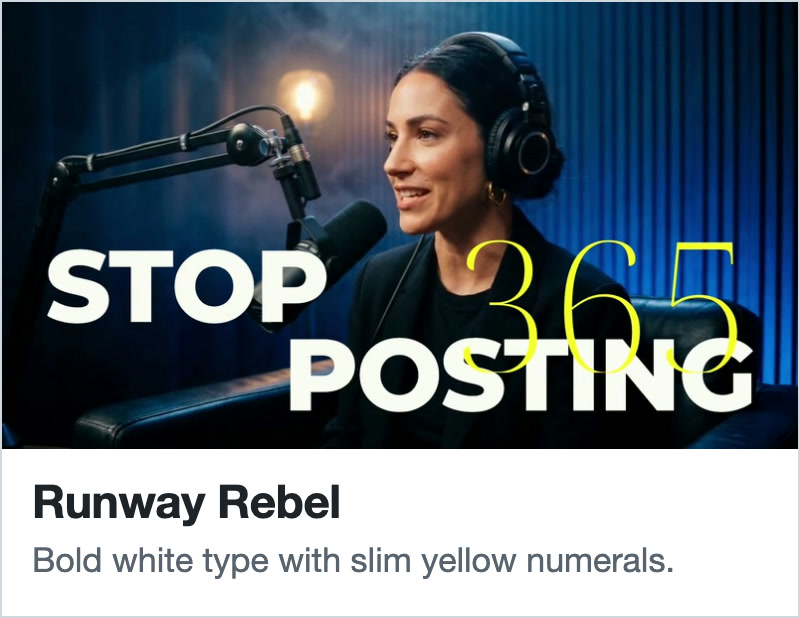
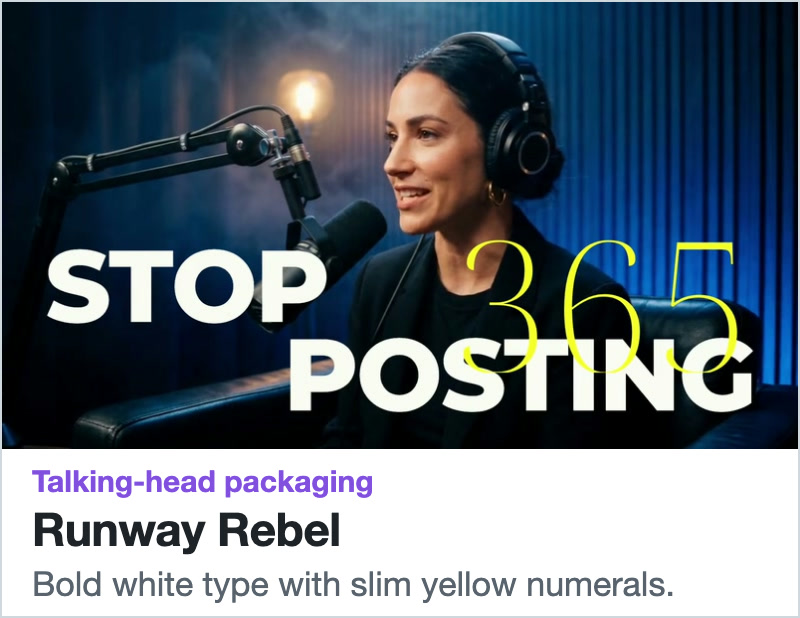
docs(readme): six Skill cards, one Install section, left-aligned intro
- Keep six cards with Viral Video Cloner in the center of the top row; the two
  packaging cards carry a "Talking-head packaging" label.
- Fold what was unique in the later Desktop and hosted Web sections into the
  Install subsections and drop the duplicates.
- Move the intro paragraph out of the centered block.

Changed region(s): [[0.0312, 0.7379, 0.8438, 0.9838]]

diff --git a/README.md b/README.md
@@ -12,9 +12,9 @@
   <a href="https://glama.ai/mcp/connectors/io.chatcut/chatcut"><img src="https://glama.ai/mcp/connectors/io.chatcut/chatcut/badges/score.svg" alt="ChatCut MCP server on Glama"></a>
 </p>
 
-<div align="center">
-
 **ChatCut is an AI video editor for agents: an MCP server and plugin that lets Codex, ChatGPT, Claude Code, Cursor, Grok Bot, Gemini CLI, Google Antigravity, Kimi Work, WorkBuddy, Doubao Work and Qwen Work edit your own footage, add captions and subtitles, remove silences and filler words, create motion graphics, generate video, voiceovers and music, and export an editable timeline.**
+
+<div align="center">
 
 [Website](https://chatcut.io/?utm_source=github&utm_medium=readme&utm_campaign=agent-plugin) · [Skills](https://chatcut.io/skills?utm_source=github&utm_medium=readme&utm_campaign=agent-plugin) · [Docs](https://chatcut.io/docs?utm_source=github&utm_medium=readme&utm_campaign=agent-plugin) · [Setup guide](https://chatcut.io/desktop?utm_source=github&utm_medium=readme&utm_campaign=agent-plugin) · [Pricing](https://chatcut.io/pricing?utm_source=github&utm_medium=readme&utm_campaign=agent-plugin) · [Discord](https://discord.com/invite/sMjQPvwZTT) · [X](https://x.com/chatcutapp)
 
@@ -36,14 +36,11 @@
 
 <p align="center">
   <a href="https://chatcut.io/skills/speech-cleanup?utm_source=github&amp;utm_medium=readme&amp;utm_campaign=agent-plugin"><img src="docs/media/skills/speech-cleanup.jpg" width="260" alt="Speech Cleanup: removes retakes, long pauses and slips"></a>
+  <a href="https://chatcut.io/viralvideocloner?utm_source=github&amp;utm_medium=readme&amp;utm_campaign=agent-plugin"><img src="docs/media/skills/viral-video-cloner.jpg" width="260" alt="Viral Video Cloner: keeps a viral video's moves, camera work and cuts, and swaps in your own people, product and setting"></a>
   <a href="https://chatcut.io/skills/add-captions?utm_source=github&amp;utm_medium=readme&amp;utm_campaign=agent-plugin"><img src="docs/media/skills/add-captions.jpg" width="260" alt="Add captions: readable captions in a style that fits"></a>
   <a href="https://chatcut.io/skills/recreate-a-video?utm_source=github&amp;utm_medium=readme&amp;utm_campaign=agent-plugin"><img src="docs/media/skills/recreate-a-video.jpg" width="260" alt="Talking-Head Edit Recreation: recreates a reference edit with your footage"></a>
-  <a href="https://chatcut.io/skills/ai-avatar-video?utm_source=github&amp;utm_medium=readme&amp;utm_campaign=agent-plugin"><img src="docs/media/skills/ai-avatar-video.jpg" width="260" alt="AI Avatar Video: a presenter video from a photo and a script"></a>
-  <a href="https://chatcut.io/viralvideocloner?utm_source=github&amp;utm_medium=readme&amp;utm_campaign=agent-plugin"><img src="docs/media/skills/viral-video-cloner.jpg" width="260" alt="Viral Video Cloner: keeps a viral video's moves, camera work and cuts, and swaps in your own people, product and setting"></a>
-  <a href="https://chatcut.io/skills/voice-cloning?utm_source=github&amp;utm_medium=readme&amp;utm_campaign=agent-plugin"><img src="docs/media/skills/voice-cloning.jpg" width="260" alt="Voice Cloning: same voice, new words, from a short sample"></a>
-  <a href="https://chatcut.io/skills/mg-packaging-runway-rebel?utm_source=github&amp;utm_medium=readme&amp;utm_campaign=agent-plugin"><img src="docs/media/skills/mg-packaging-runway-rebel.jpg" width="260" alt="Runway Rebel: bold white type with slim yellow numerals"></a>
-  <a href="https://chatcut.io/skills/mg-packaging-editorial-explainer?utm_source=github&amp;utm_medium=readme&amp;utm_campaign=agent-plugin"><img src="docs/media/skills/mg-packaging-editorial-explainer.jpg" width="260" alt="Editorial Explainer: news-style motion graphics and data charts"></a>
-  <a href="https://chatcut.io/skills/video-translation?utm_source=github&amp;utm_medium=readme&amp;utm_campaign=agent-plugin"><img src="docs/media/skills/video-translation.jpg" width="260" alt="Video Translation: your voice and picture, in another language"></a>
+  <a href="https://chatcut.io/skills/mg-packaging-runway-rebel?utm_source=github&amp;utm_medium=readme&amp;utm_campaign=agent-plugin"><img src="docs/media/skills/mg-packaging-runway-rebel.jpg" width="260" alt="Talking-head packaging, Runway Rebel: bold white type with slim yellow numerals"></a>
+  <a href="https://chatcut.io/skills/mg-packaging-editorial-explainer?utm_source=github&amp;utm_medium=readme&amp;utm_campaign=agent-plugin"><img src="docs/media/skills/mg-packaging-editorial-explainer.jpg" width="260" alt="Talking-head packaging, Editorial Explainer: news-style motion graphics and data charts"></a>
 </p>
 
 ## Install
@@ -66,7 +63,7 @@
 
 ### Install ChatCut Desktop yourself
 
-Run the official installer:
+Run the official installer on the macOS or Windows computer itself. It needs a graphical desktop but not Node.js or npm, so a Linux or remote agent can't install Desktop there:
 
 ```sh
 # macOS 13 or newer (Apple Silicon or Intel)
@@ -84,11 +81,13 @@ Google Antigravity can also install the Desktop package directly. Then ask “In
 agy plugin install https://github.com/ChatCut-Inc/agent-plugin/tree/main/antigravity-desktop
 ```
 
+Video recreation needs Desktop: its bundled `video-gen` Skill calls `submit_video_remake` to keep a reference video's motion and timing with your person or product, and asks before spending credits ([guide](https://chatcut.io/viralvideocloner?utm_source=github&utm_medium=readme&utm_campaign=agent-plugin)).
+
 ### Hosted Web plugin
 
-Use this for existing ChatCut Web projects or Web-only use.
+Use this for existing ChatCut Web projects or Web-only use. Web projects and their media aren't migrated to Desktop, and connecting Desktop to the same agent may replace its hosted connection.
 
-Claude Code (`claude mcp login` needs Claude Code 2.1.210 or newer; [full guide](https://chatcut.io/web-plugin/claude?utm_source=github&utm_medium=readme&utm_campaign=agent-plugin)):
+Claude Code (`claude mcp login` needs Claude Code 2.1.210 or newer; [full guide](https://chatcut.io/web-plugin/claude?utm_source=github&utm_medium=readme&utm_campaign=agent-plugin), [agent-executable copy](./docs/claude-code-web-install.md)):
 
 ```sh
 claude plugin marketplace add https://github.com/ChatCut-Inc/agent-plugin.git#main
@@ -111,7 +110,7 @@ Gemini CLI:
 gemini extensions install https://github.com/ChatCut-Inc/agent-plugin
 ```
 
-Grok Bot: see [grok/README.md](./grok/README.md). Antigravity Web: see [antigravity/README.md](./antigravity/README.md).
+Grok Bot, Cursor and Antigravity Web: see [grok/README.md](./grok/README.md), [cursor/README.md](./cursor/README.md) and [antigravity/README.md](./antigravity/README.md). Grok Bot and Cursor sign in from the host's Plugins screen; in Antigravity, select **Customizations → Authenticate** next to the ChatCut MCP server.
 
 Other MCP clients that support remote servers with OAuth can connect to `https://api.chatcut.io/api/external-mcp/mcp` and sign in with a ChatCut account.
 
@@ -194,14 +193,6 @@ ChatCut edits your own footage and generates new media, and the result is an edi
 
 **Video types:** talking-head videos, podcasts and interviews, tutorials and lectures, product demos and app promos, UGC-style product ads, short-form videos, viral video remakes, presenter and avatar videos, screen-recorded demos *(Desktop)*, multicam shoots, music videos cut to the beat *(Desktop)* and translated videos.
 
-## Install ChatCut Desktop (recommended)
-
-Ask your agent to read the complete [ChatCut Desktop setup guide](https://chatcut.io/desktop?utm_source=github&utm_medium=readme&utm_campaign=agent-plugin) using `curl -fsSL https://chatcut.io/desktop` (`curl.exe` on Windows), then install ChatCut and connect the current agent. The official macOS and Windows installers do not need Node.js or npm. Desktop owns its local tools and Skills. Run setup on a supported macOS or Windows computer with a graphical desktop. Linux and remote agents without access to that computer cannot install Desktop there; continue in a local agent on the supported computer.
-
-To recreate a reference video with your person or product while retaining its motion and timing, use Desktop’s bundled `video-gen` Skill and `submit_video_remake`. See the [video recreation guide](https://chatcut.io/viralvideocloner?utm_source=github&utm_medium=readme&utm_campaign=agent-plugin). Quotes use current account access and require approval before spending credits.
-
-The hosted packages below remain available for existing Web projects and explicit Web-only use. Web projects and original media remain separate and are not automatically migrated. Connecting Desktop to the same agent may disable or replace its conflicting hosted connection; do not promise that both connections stay active.
-
 ## What Is Included
 
 - `codex/` - the Codex plugin package.
@@ -236,18 +227,6 @@ Clone the complete repository with symlink support. When distributing a standalo
 - A ChatCut account.
 - Codex with plugin support, Claude Code 2.x (CLI or desktop app), Grok Bot, Cursor, Google Antigravity (App, CLI, or IDE), Kimi Work, WorkBuddy, Doubao Work or Qwen Work.
 - Access to a ChatCut project you want to edit.
-
-## Optional hosted Web plugin authentication
-
-The plugin connects to ChatCut through the hosted ChatCut MCP endpoint:
-
-```text
-https://api.chatcut.io/api/external-mcp/mcp
-```
-
-The host handles authentication when the plugin is installed or first used (`codex mcp login chatcut`, or `claude mcp login plugin:chatcut:chatcut` in Claude Code). Grok Bot and Cursor users complete the authorization flow from the host's Plugins screen. Antigravity users select **Customizations → Authenticate** next to the ChatCut MCP server. Follow the sign-in flow to connect your ChatCut account.
-
-Install instructions per host: [Codex Web guide](https://chatcut.io/web-plugin/chatgpt?utm_source=github&utm_medium=readme&utm_campaign=agent-plugin) for Codex, [Claude Code Web guide](https://chatcut.io/web-plugin/claude?utm_source=github&utm_medium=readme&utm_campaign=agent-plugin) for Claude Code (agent-executable copy in [./docs/claude-code-web-install.md](./docs/claude-code-web-install.md)), [./grok/README.md](./grok/README.md) for Grok Bot, [./cursor/README.md](./cursor/README.md) for Cursor, and [./antigravity/README.md](./antigravity/README.md) for Antigravity.
 
 ## Example Prompts
 
